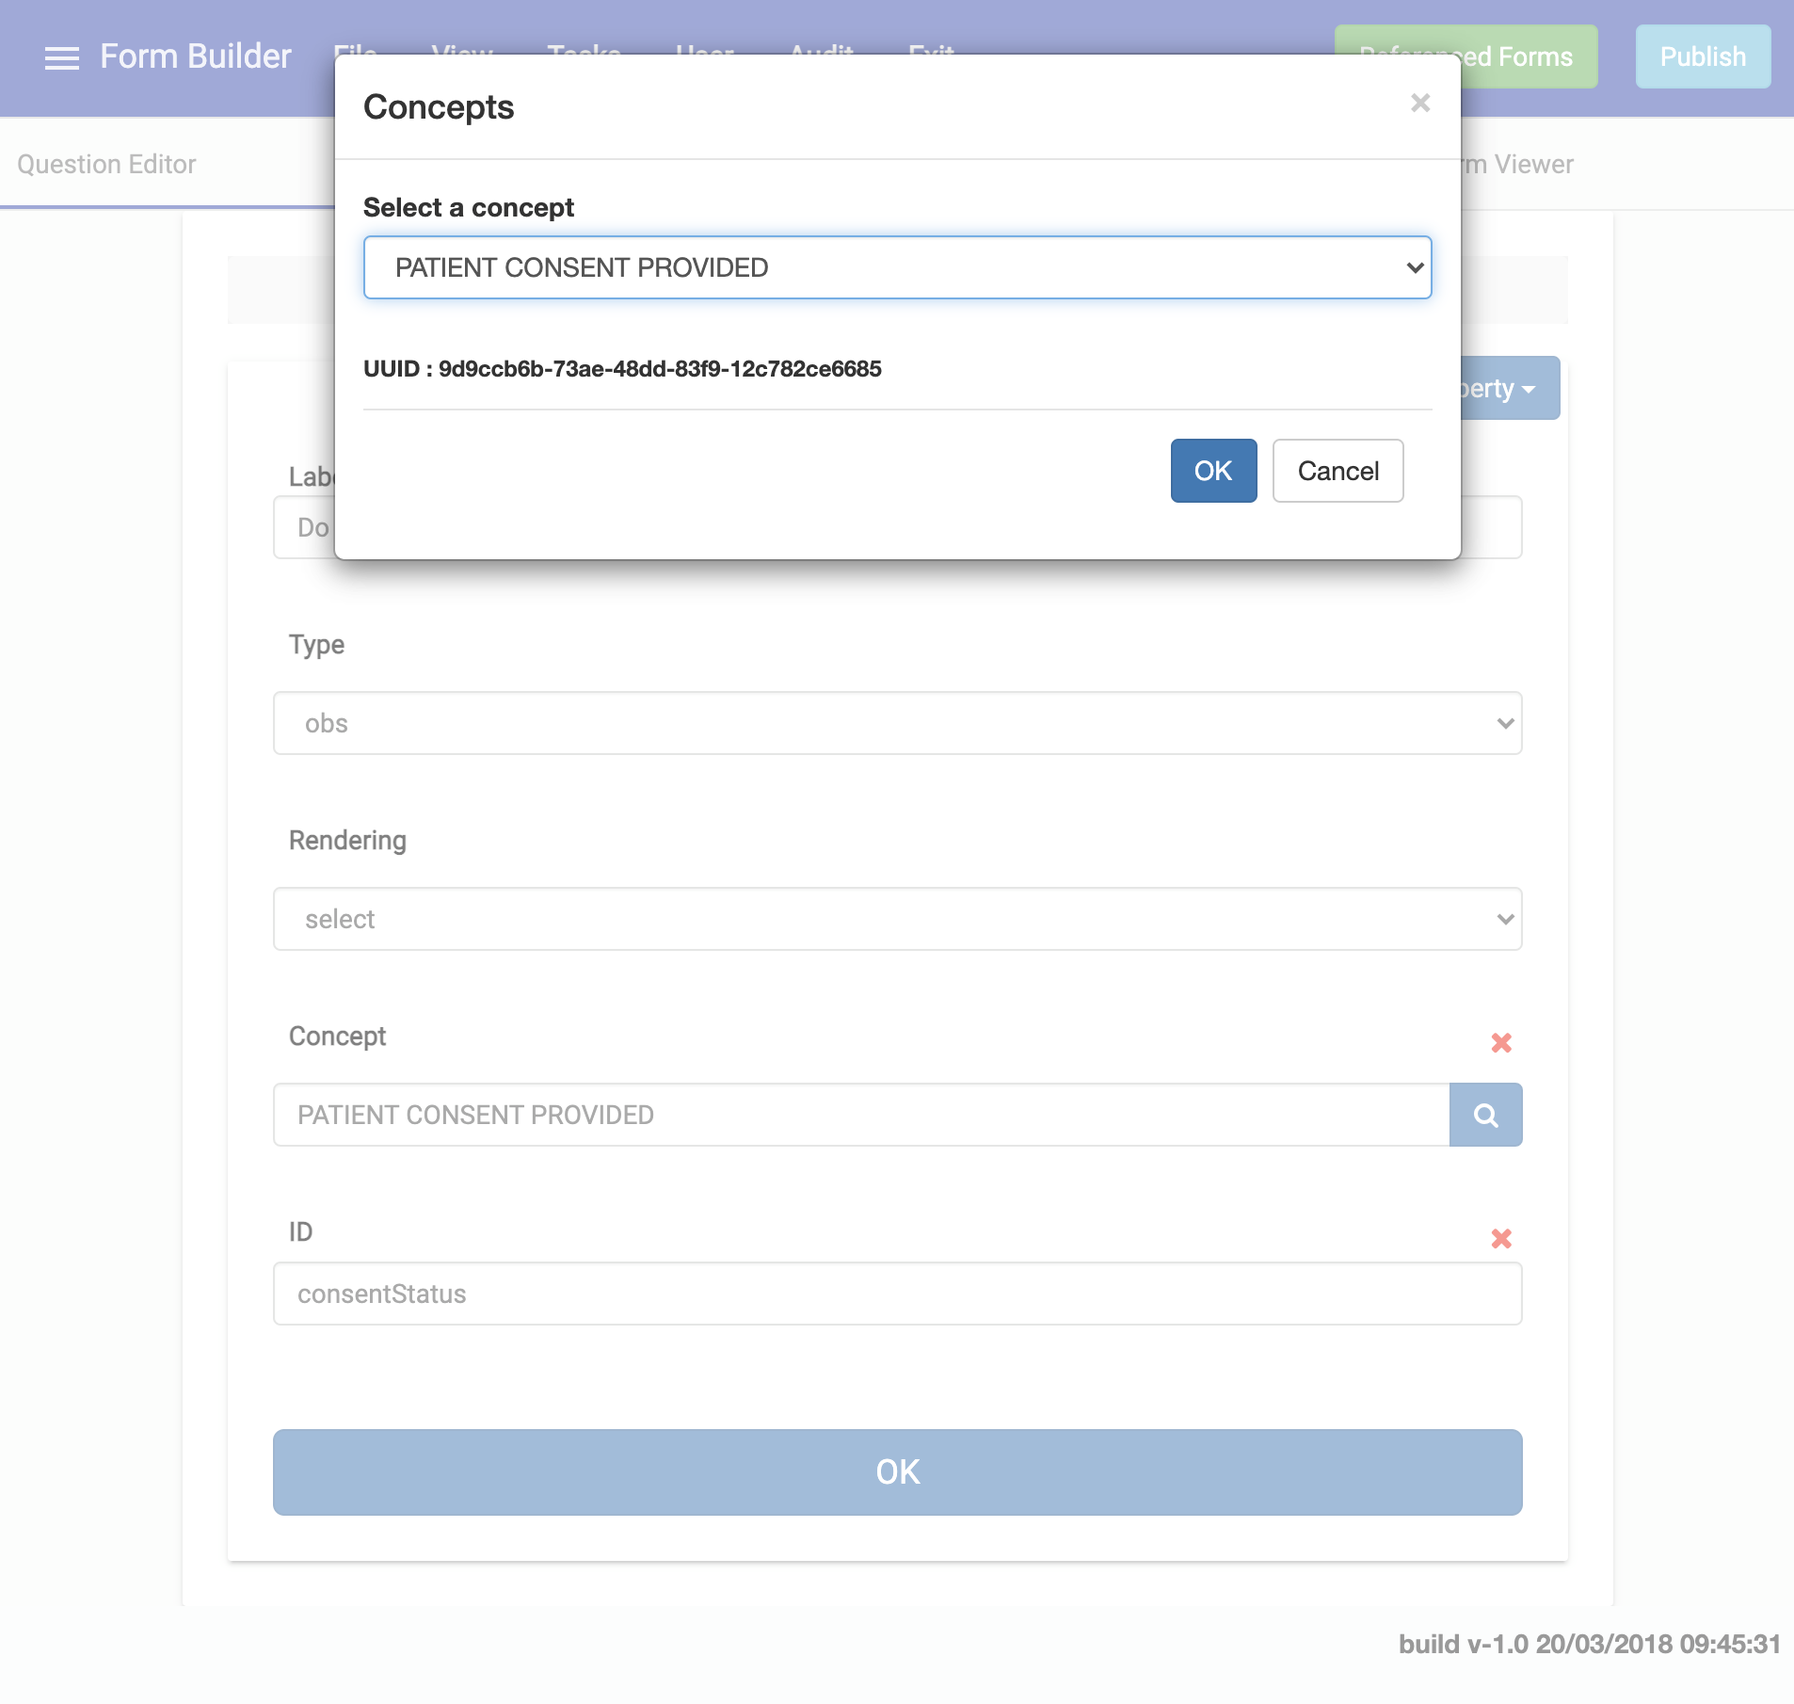
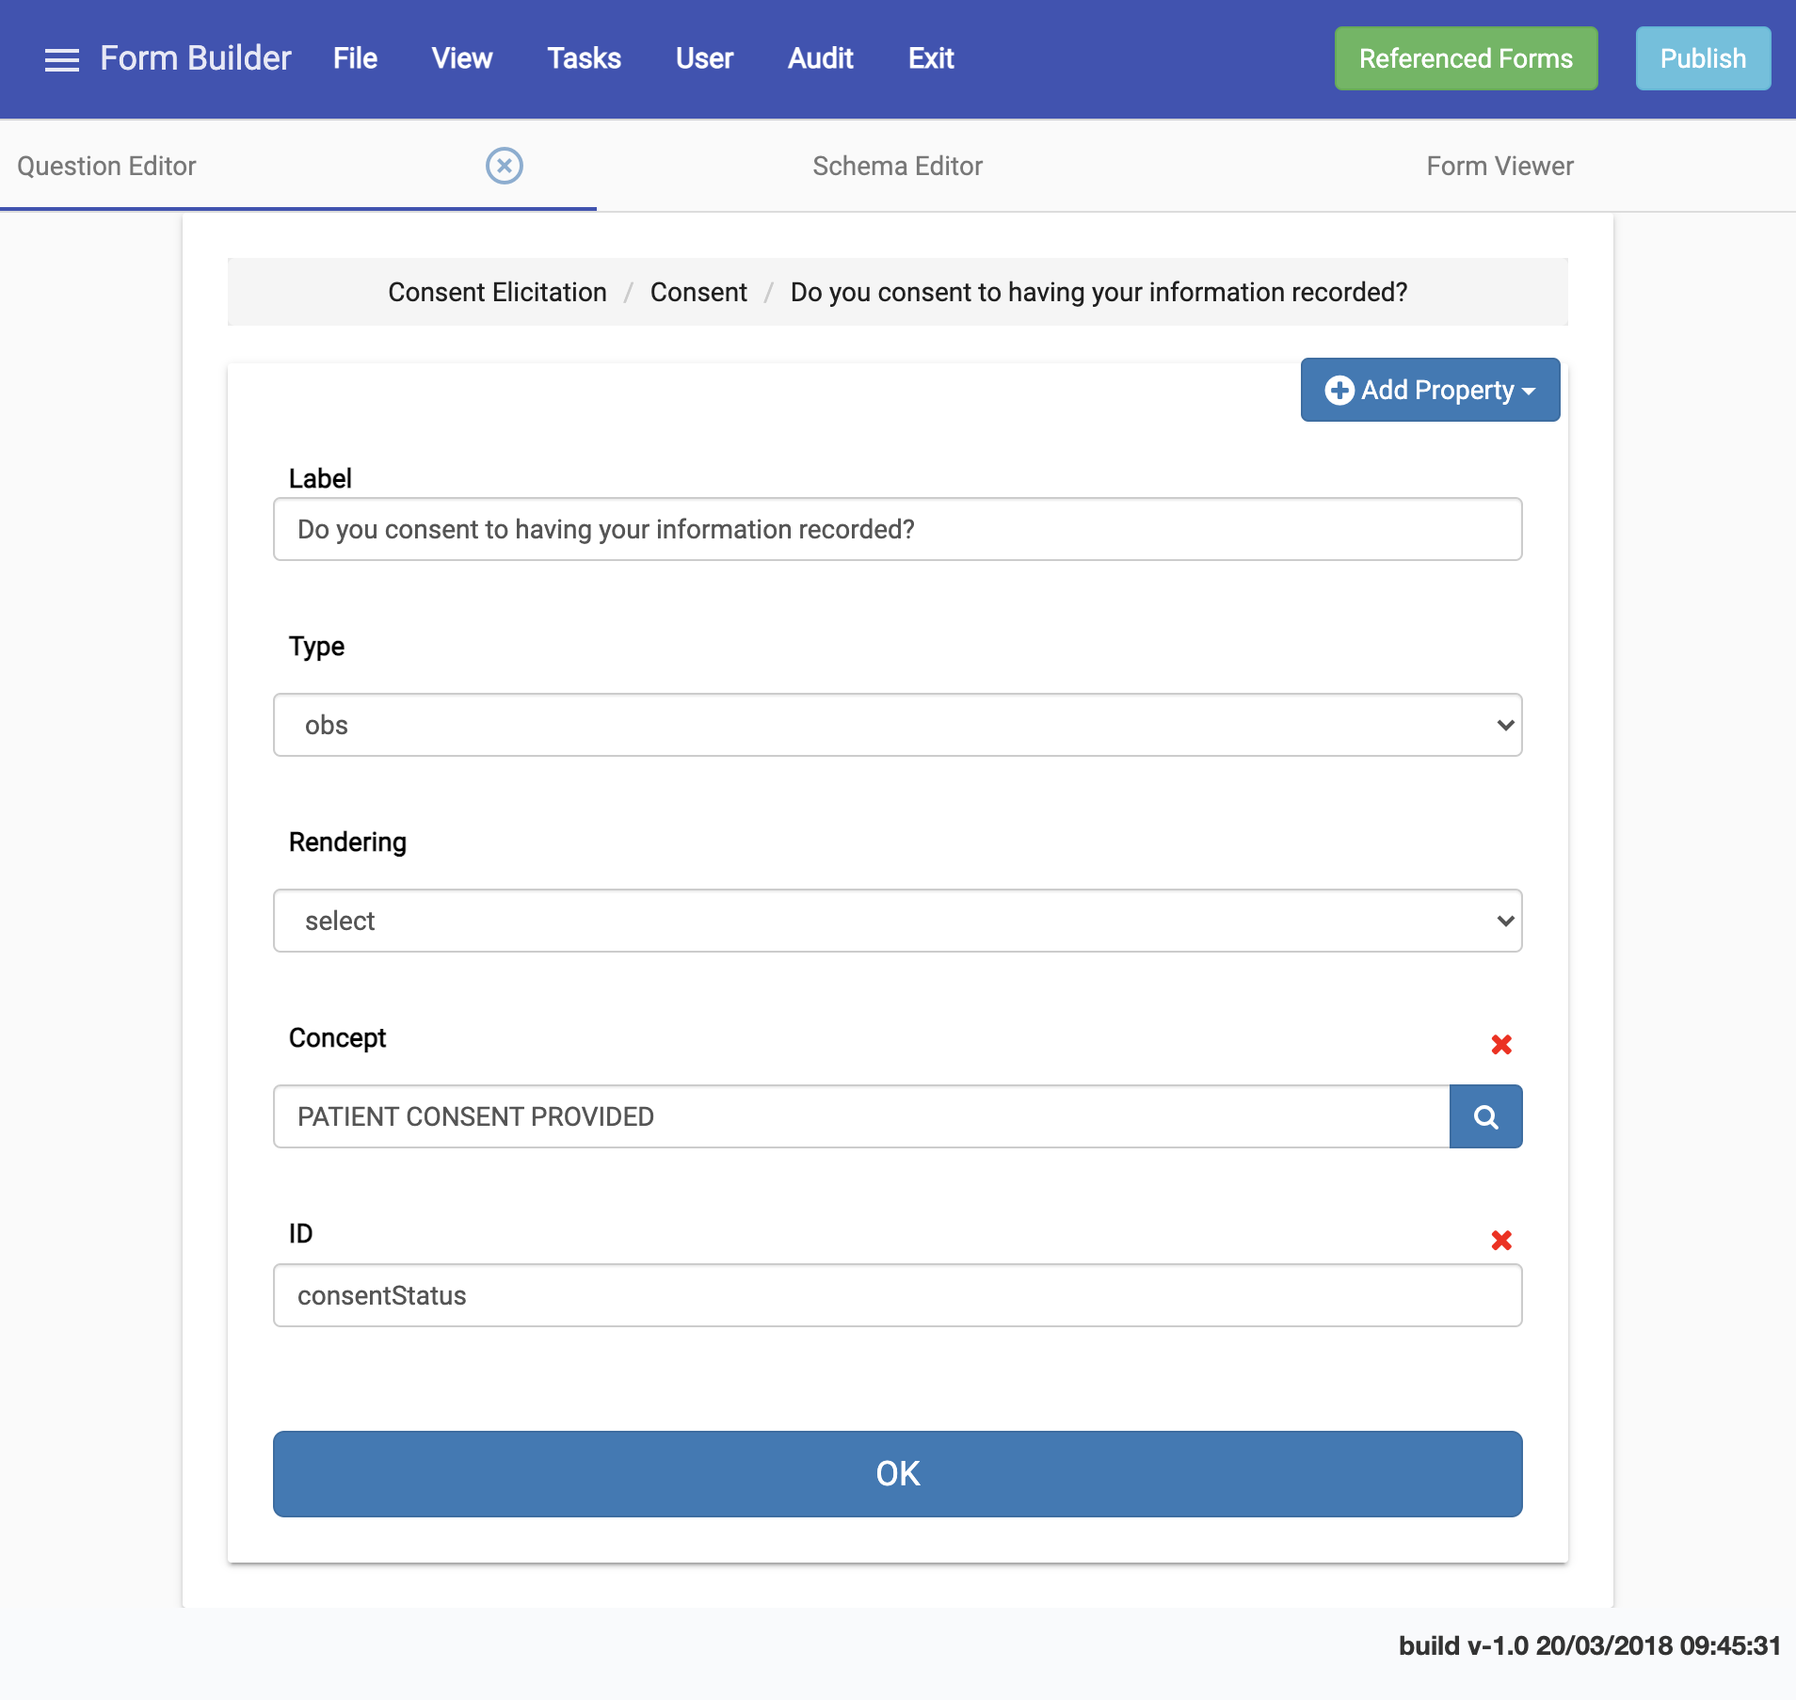
More updates and fixes

diff --git a/docs/platform/core-concepts.md b/docs/platform/core-concepts.md
@@ -4,11 +4,11 @@ sidebar_position: 1
 
 # Core Concepts
 
-AMPATH forms provide a powerful structure for working with forms and data. This guide will walk you through its underlying core concepts.
+AMPATH Forms provide a powerful structure for working with forms and data. This guide will walk you through its underlying core concepts.
 
 ## **Form**
 
-A form is a collection of form fields. Forms are described using schemas written in JSON. The most basic form schema looks as follows:
+A Form is a collection of Form fields. Forms are described using schemas written in JSON. The most basic Form schema looks as follows:
 
 ```json
 {
@@ -20,15 +20,17 @@ A form is a collection of form fields. Forms are described using schemas written
 }
 ```
 
-Form schemas get constructed using the Schema Editor. When you launch the Schema Editor, you get presented with a default form scaffold that looks like the example schema shown above. The default schema comprises of the following:
+Form schemas get constructed using the Schema Editor. When you launch the Schema Editor, you get presented with a default Form scaffold that looks like the example schema shown above. The default schema comprises of the following:
 
-- `name`: The name of the form. Presently, form names must contain the word POC to be considered valid.
-- `uuid`: The unique form UUID. The form UUID is autogenerated by the form builder when you create and save a form successfully.
-- `referencedForms`: The collection of components that the form references. Components are reusable forms that encapsulate related logic. You can build a form iteratively by adding components to it using the **Reference Forms** feature of the form builder. Read more about referencing forms in the [Referencing forms](/platform/referencing-forms) guide.
+- `name`: The name of the Form. Presently, Form names must contain the word **POC** to be considered valid. For example, **Test POC form** is a valid Form name whereas **Yet Another Test form** is not.
+
+- `uuid`: The unique Form UUID. The form UUID is autogenerated by the Form Builder when you create and save a Form successfully.
+
+- `referencedForms`: The collection of components that the Form references. Components are reusable forms that encapsulate related logic. You can build a Form iteratively by adding components to it using the **Reference Forms** feature of the form builder. Read more about referencing forms in the [Referencing forms](/platform/referencing-forms) guide.
 
 - `pages`: A collection of pages that make up a form. You can add pages to a form by adding page definitions to the pages collection. Pages are made up of sections. Read more about pages in the [Page](/platform/core-concepts#page) guide.
 
-- `processor`: Defaults to `EncounterFormProcessor`.
+- `processor`: Defaults to `EncounterFormProcessor`. The form processor converts an OpenMRS REST form response into a format that the form renderer can render and display. Conversely, the form processor also converts the submitted form payload into a format that the REST backend can understand.
 
 ## Page
 
@@ -83,7 +85,7 @@ In practice, your form will likely have more than one page. As mentioned before,
 
 A section is an element of a form schema that groups together related questions. Sections will be rendered in "collapsed mode" by default. Set `isExpanded` to `true` in the section definition if you want to render the section in "expanded mode".
 
-There are two ways to build section definitions in AMPATH forms:
+There are two ways to build section definitions in AMPATH Forms:
 
 1. Constructing the section definition _manually_ by providing a section **label** and a **questions** array, and optionally, an **isExpanded** boolean value:
 
@@ -236,10 +238,12 @@ All questions have a **label**, and **id**, a **rendering** type**,** and a set 
 
 - `label`: The actual content of the question. This is what gets rendered as the question label.
 - `id`: An ID unique to that question. Used when validating the field input.
+- `type`: Provides information that the proccessor uses to render a field. An `obs` field, for example, will be rendered differently than an `encounterLocation` field. Currently supported `type`s include: `obs`, `obsGroup`, `testOrder`, `control`, `complex-obs`, `encounterDatetime`, `encounterLocation`, `encounterProvider`, `personAttribute`.
+
 - `questionOptions`: An object containing the following properties:
 
-  - `rendering`: The field type of the question. The most common field types are **text** (for text inputs), **select** (for select fields) and **date** (for date fields). See the **Field types** reference below for a full list of rendering types.
-  - `concept`: Optional. The concept UUID of the backing concept for this field.
+  - `rendering`: The field type of the question. The most common field types are **text** (for text inputs), **select** (for select fields) and **date** (for date fields). See the [Field types reference](/platform/fields-reference) for a full list of rendering types.
+  - `concept`: The concept UUID of the backing concept for this field.
   - `answers`: An array of answers scoped to a question. An answer definition consists of a concept UUID and label pair. Below is an example of answers to a `Current HIV status` question:
 
     ```json
@@ -261,14 +265,13 @@ All questions have a **label**, and **id**, a **rendering** type**,** and a set 
     }
     ```
 
-- `type`: Optional.
-- `historicalExpression`: Optional. Allows you to hook your input up to the `HistoricalEncounterDataService`. This service 'remembers' the last value entered into an input from the latest encounter and offers the user the option to reuse that value.
+- `historicalExpression`: Allows you to hook your input up to the `HistoricalEncounterDataService`. This service 'remembers' the last value entered into an input from the latest encounter and offers the user the option to reuse that value.
 
   ![Historical expressions](/img/historical-expressions.png)
 
-- `required`: Optional. If set to **true**, the field is treated as a required field. Defaults to **false**.
-- `validators`: Optional. An array in which you provide validation logic for the specific question. Read more about validation in the [Validating form fields](validating-form-fields) reference.
-- `hide`: Optional. You can use this to define logic for hiding a question based on certain conditions.
+- `required`: If set to **true**, the field is treated as a required field. Defaults to **false**.
+- `validators`: An array in which you provide validation logic for the specific question. Read more about validation in the [Validating form fields](validating-form-fields) reference.
+- `hide`: You can use this to define logic for hiding a question based on certain conditions.
 
   ```json
   {

diff --git a/docs/getting-started/create_a_form.md b/docs/getting-started/create_a_form.md
@@ -14,7 +14,12 @@ Visit the [AMPATH form builder](https://openmrs-spa.org/formbuilder/#/login) web
 
 ## Step 2. Create a Form
 
-Click the **Create New** button. You will be directed to the Schema Editor UI showing a basic form schema scaffold. A Form schema consists of pages, sections and questions. See the [Form](/platform/core-concepts#form) guide to learn more about Forms.
+Click the **Create New** button. You will be directed to the Schema Editor UI showing a basic form schema scaffold. A Form schema consists of pages, sections and questions. There are two ways to build your schema using the Form Builder:
+
+- Using the **Schema Builder** to build your form interactively. We'll use this approach for this guide.
+- Building your schema programmatically by definining a JSON schema in the Schema Editor.
+
+See the [Form](/platform/core-concepts#form) guide to learn more about Forms.
 
 ![Schema editor](/img/schema-editor.png)
 
@@ -46,17 +51,11 @@ Add a question by clicking `Create new question`.
 
 This launches the **Question Editor** panel. Read more about what constitutes a question definition in the [Question](/platform/core-concepts#question) guide.
 
-Fill the Question Editor fields with the following information:
-
-![Configure question options](/img/configure-question-options.png)
+![Concept search modal](/img/concept-modal.png)
 
 Enter `PATIENT CONSENT PROVIDED` in the Concept field. This should launch the **Concept Search** modal. The Form Builder is linked to a Concept Dictionary. This Concept Search modal allows you to perform a concept search based on either a concept name, concept ID, or concept UUID. In this example, the Concept Dictionary in use is the AMPATH Concept Dictionary. The `PATIENT CONSENT PROVIDED` concept referenced here has the ID `7656`.
 
-![Concept search modal](/img/concept-modal.png)
-
-Select `PATIENT CONSENT PROVIDED` from the dropdown.
-
-![Select a concept](/img/select-concept.png)
+Press **OK** to save.
 
 A modal should now appear asking you to pick your desired Answers from a list of available Answers. Click **Select All** to choose both `YES` and `NO`.
 
@@ -69,6 +68,75 @@ Click **OK** to save. You should now see the associated Concept Mappings and the
 Click **OK** to save your form schema at this point. You should see an alert showing that the schema was updated successfully.
 
 ![Schema updated](/img/schema-updated.png)
+
+The final schema in the Schema Editor should look like this:
+
+```json
+{
+  "name": "Test POC Patient Consent Form v1.0",
+  "processor": "EncounterFormProcessor",
+  "uuid": "xxxx",
+  "referencedForms": [],
+  "pages": [
+    {
+      "label": "Consent Elicitation",
+      "sections": [
+        {
+          "label": "Consent",
+          "isExpanded": "true",
+          "questions": [
+            {
+              "label": "Do you consent to having your information recorded?",
+              "type": "obs",
+              "questionOptions": {
+                "rendering": "select",
+                "concept": "9d9ccb6b-73ae-48dd-83f9-12c782ce6685",
+                "conceptMappings": [
+                  {
+                    "type": "MCL/CIEL",
+                    "value": "1710"
+                  }
+                ],
+                "answers": [
+                  {
+                    "concept": "a899b35c-1350-11df-a1f1-0026b9348838",
+                    "label": "YES",
+                    "conceptMappings": [
+                      {
+                        "type": "local",
+                        "value": "1065"
+                      },
+                      {
+                        "type": "MCL/CIEL",
+                        "value": "1065"
+                      }
+                    ]
+                  },
+                  {
+                    "concept": "a899b42e-1350-11df-a1f1-0026b9348838",
+                    "label": "NO",
+                    "conceptMappings": [
+                      {
+                        "type": "MCL/CIEL",
+                        "value": "1066"
+                      },
+                      {
+                        "type": "local",
+                        "value": "1066"
+                      }
+                    ]
+                  }
+                ]
+              },
+              "id": "consentStatus"
+            }
+          ]
+        }
+      ]
+    }
+  ]
+}
+```
 
 ## Step 6. Test your Form
 
@@ -84,6 +152,6 @@ When you're done working on your Form, you can save the Form by going to **File*
 
 ![Save modal](/img/save-modal.png)
 
-Press **OK** to save your Form, and then **Exit** to leave the schema editor.
+Press **OK** to save your Form, and then **Exit** to leave the Schema Editor.
 
 You should now be able to see your new Form in the Forms List.

diff --git a/docs/getting-started/edit_a_form.md b/docs/getting-started/edit_a_form.md
@@ -4,35 +4,35 @@ sidebar_position: 3
 
 # Edit a Form
 
-## Step 1. Find the form
+## Step 1. Find the Form
 
-Search for the form you want to work on using the search input at the top right hand section of the forms. Alternatively, use the pagination controls at the bottom of the page to navigate the forms list.
+Search for the Form you want to work on using the search input at the top right hand section of the forms. Alternatively, use the pagination controls at the bottom of the page to navigate the Forms List.
 
 ![Forms list](/img/forms-list.png)
 
-## Step 2. Launch the form in Edit mode
+## Step 2. Launch the Form in Edit mode
 
-Click on the pen icon icon next to the right of the form name in the forms list to launch it in the schema editor.
+Click on the pen icon icon next to the right of the Form name in the Forms List to launch it in the Schema Editor.
 
 ![Launch form](/img/launch-form.png)
 
-You should see the form schema rendered in the schema editor.
+You should see the Form schema rendered in the Schema Editor.
 
 ![Rendered form schema](/img/rendered-schema.png)
 
 ## Step 3. Make changes to your form
 
-You can begin to make amendments to the form schema. Note that you can see a visual representation of your amended form at any time by clicking the `Render` button at the bottom of the page. Provided your form schema is valid, the form engine should render the form and update its visual representation. You can then click on the `Form Viewer` tab at the top of the page to reveal the updated visual representation.
+You can begin to make amendments to the Form schema. Note that you can see a visual representation of your amended Form at any time by clicking the `Render` button at the bottom of the page. Provided your Form schema is valid, the form engine should render the Form and update its visual representation. You can then click on the `Form Viewer` tab at the top of the page to reveal the updated visual representation.
 
 ![Visual representation of the compiled form schema](/img/schema-visual-representation.png)
 
 ## Step 4. Save your form
 
-When you're done making changes to your form, click `File` and select `Save to Server`.
+When you're done making changes to your Form, click `File` and select `Save to Server`.
 
 ![Dialog prompt asking to save form](/img/save-form-dialog.png)
 
-If you want to overwrite the existing form schema, select `Update current version`. Otherwise, if you want to save the schema as a new version, select `Save as new version`.
+If you want to overwrite the existing Form schema, select `Update current version`. Otherwise, if you want to save the schema as a new version, select `Save as new version`.
 
 ![Update current form version dialog](/img/update-form-dialog.png)
 

diff --git a/docs/getting-started/getting-started.md b/docs/getting-started/getting-started.md
@@ -24,7 +24,7 @@ Once logged in, you should see this landing page.
 
 Features on this page include:
 
-- The **Create New** button. Clicking on this launches the schema editor.
+- The **Create New** button. Clicking on this launches the Schema Editor.
 - The **Forms List view** dropdown. You can use it to toggle between displaying Forms and Components.
 - The **Forms List search bar**. You can use it to search through the available Forms by name. You can also use the Published filter to limit your search to only forms that are published.
 - The **Forms List** - A list of all the Forms saved to the backend server. From it, you can see the Form names and versions, their published status, their retired status, and a list of actions you can take. These actions include the ability to:

diff --git a/docs/platform/fields-reference.md b/docs/platform/fields-reference.md
@@ -4,7 +4,7 @@ sidebar_position: 2
 
 # Field Types Reference
 
-AMPATH forms support multiple field types. The most common fields include `text`, `textarea`, `number`, `date`, `select`, `radio` and `checkbox`.
+AMPATH Forms support multiple field types. The most common fields include `text`, `textarea`, `number`, `date`, `select`, `radio` and `checkbox`.
 
 Field types are defined in the `questionOptions` definition of a question using the following syntax:
 

diff --git a/README.md b/README.md
@@ -1,4 +1,4 @@
-Documentation website for AMPATH forms https://ampath-forms.vercel.app.
+Documentation website for AMPATH Forms https://ampath-forms.vercel.app.
 
 ## Contributors ✨
 
